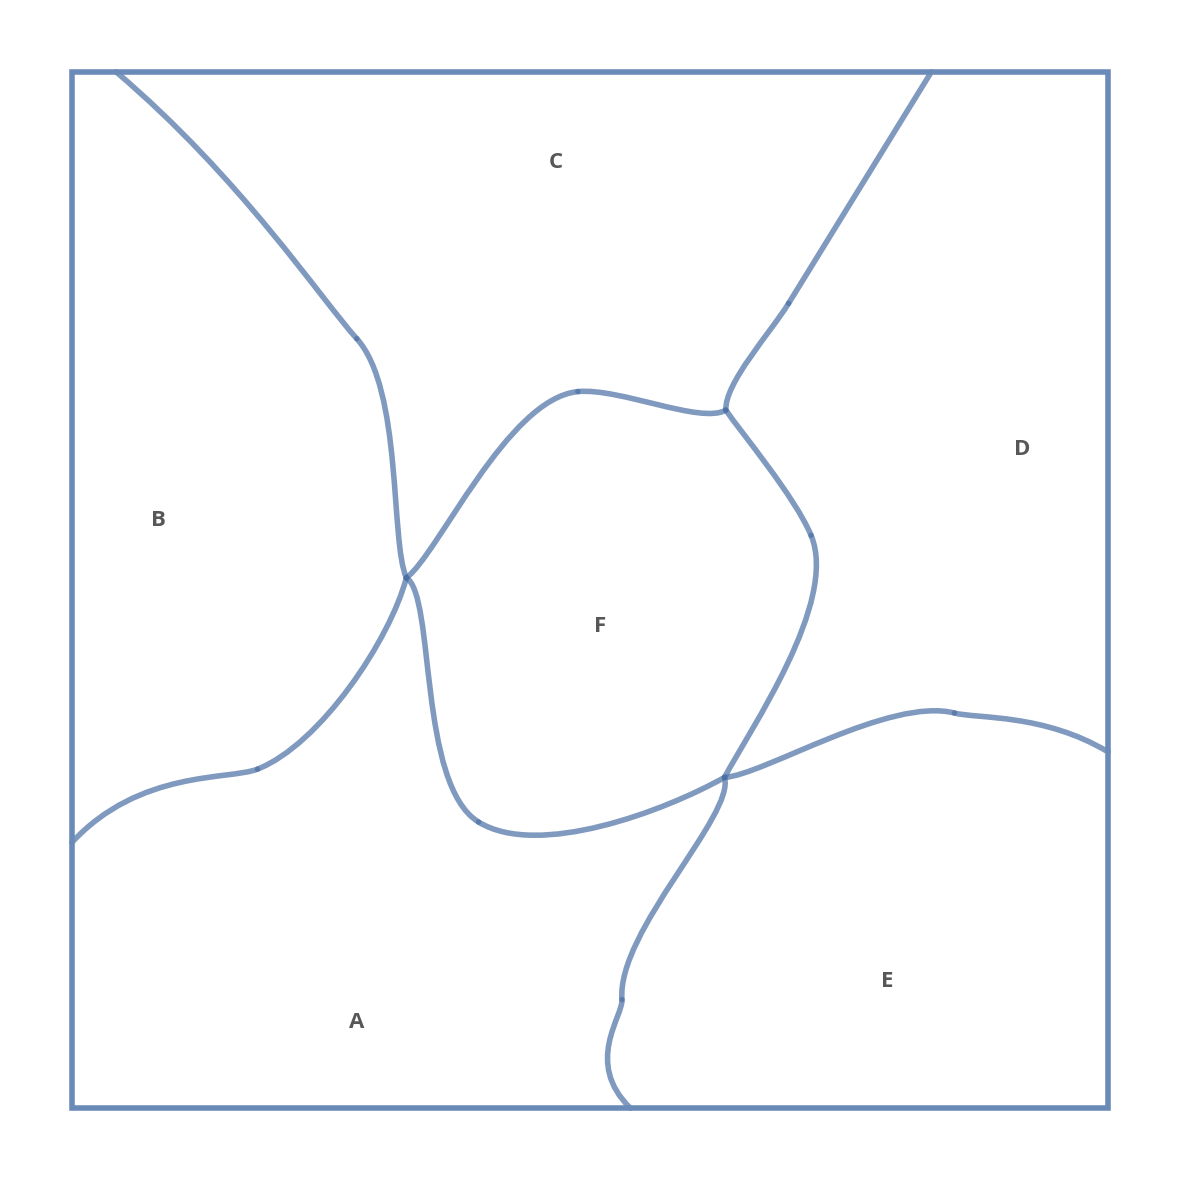
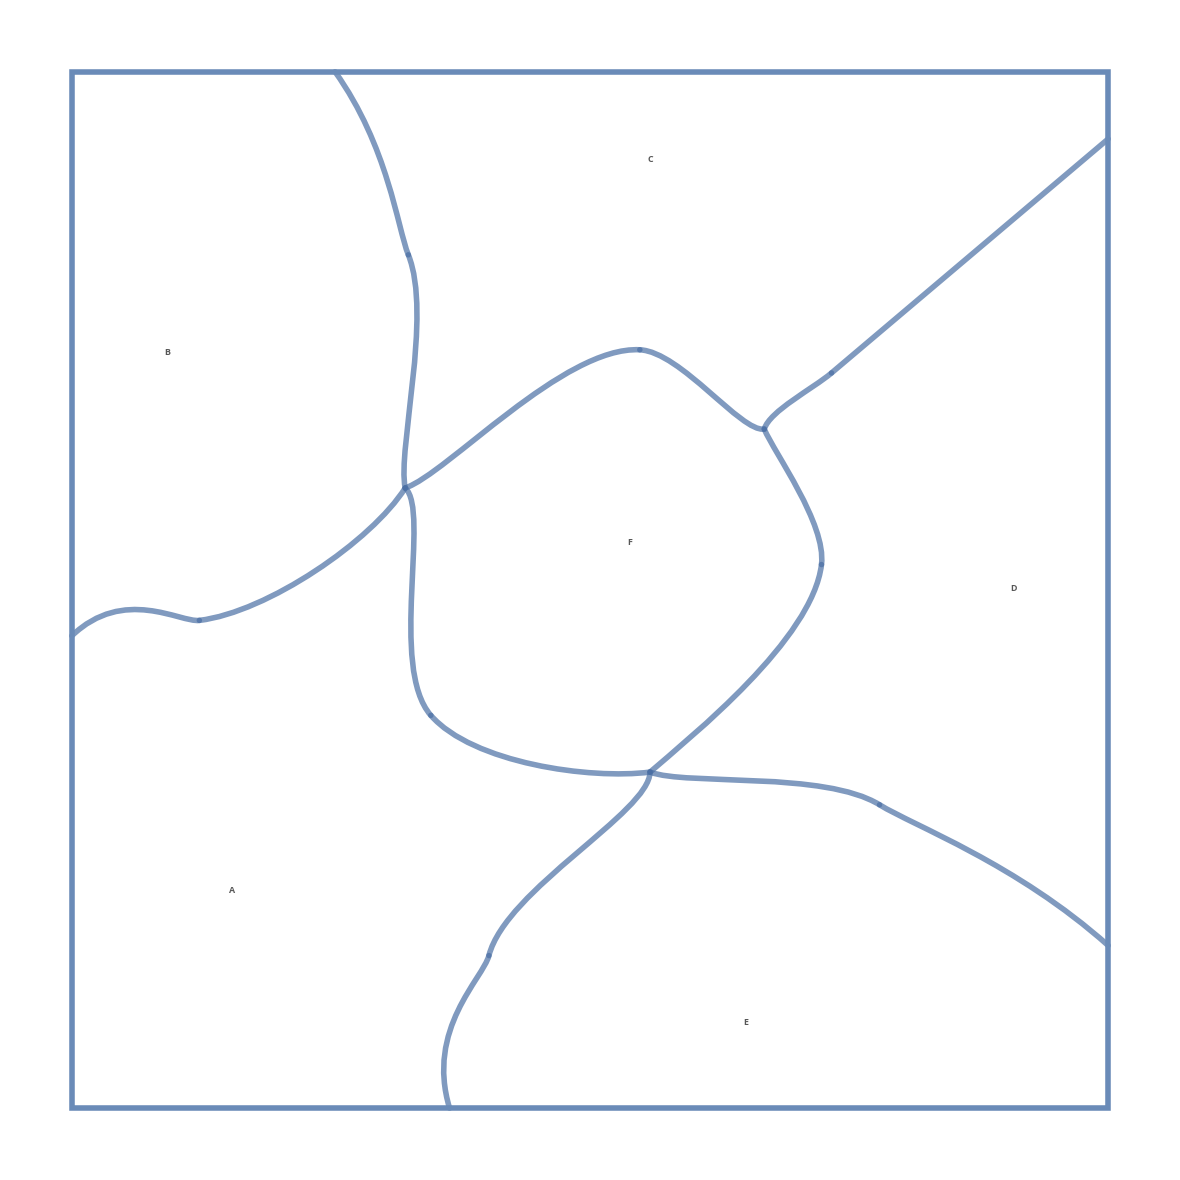
Trying to fix various bugs

diff --git a/adjacency_reduction.py b/adjacency_reduction.py
@@ -113,6 +113,26 @@ def adjacency_matrix_from_graph(G):
     return labels, matrix
 
 
+def remove_degree_one_nodes(G):
+    """
+    Repeatedly remove degree-1 nodes until none remain.
+    """
+    H = G.copy()
+
+    changed = True
+    while changed:
+        changed = False
+
+        for n in list(H.nodes()):
+            if H.degree(n) == 1:
+                H.remove_node(n)
+                changed = True
+
+        # loop again in case new danglers were created
+
+    return H
+
+
 def save_adjacency_matrix_to_excel(labels, matrix, path):
     """
     Save adjacency matrix to an Excel file with labels as both row and column headers.
@@ -121,10 +141,17 @@ def save_adjacency_matrix_to_excel(labels, matrix, path):
     df.to_excel(path)
 
 
-def reduce_adjacency_matrix_excel(input_path):
+def reduce_adjacency_matrix_excel(input_path, remove_danglers=False):
     """
-    Read adjacency matrix from Excel, suppress degree-2 nodes, and save
-    reduced matrix to a new Excel file with '-reduced' appended.
+    Read adjacency matrix from Excel, suppress degree-2 nodes, optionally
+    remove degree-1 nodes, and save reduced matrix to a new Excel file.
+
+    If remove_danglers is True, repeatedly removes nodes of degree 1 after
+    suppressing degree-2 nodes.
+
+    Output file name:
+    - normal:   originalname-reduced.xlsx
+    - danglers: originalname-reduced-nodanglers.xlsx
     """
     input_path = Path(input_path)
 
@@ -134,12 +161,27 @@ def reduce_adjacency_matrix_excel(input_path):
     print(f"Original graph: {G.number_of_nodes()} nodes, {G.number_of_edges()} edges")
 
     H = suppress_degree_two_nodes(G)
+    print(
+        f"After suppressing degree-2 nodes: {H.number_of_nodes()} nodes, {H.number_of_edges()} edges"
+    )
 
-    print(f"Reduced graph:  {H.number_of_nodes()} nodes, {H.number_of_edges()} edges")
+    if remove_danglers:
+        H = remove_degree_one_nodes(H)
+        print(
+            f"After removing danglers:        {H.number_of_nodes()} nodes, {H.number_of_edges()} edges"
+        )
 
     reduced_labels, reduced_matrix = adjacency_matrix_from_graph(H)
 
-    output_path = input_path.with_name(f"{input_path.stem}-reduced{input_path.suffix}")
+    if remove_danglers:
+        output_path = input_path.with_name(
+            f"{input_path.stem}-reduced-nodanglers{input_path.suffix}"
+        )
+    else:
+        output_path = input_path.with_name(
+            f"{input_path.stem}-reduced{input_path.suffix}"
+        )
+
     save_adjacency_matrix_to_excel(reduced_labels, reduced_matrix, output_path)
 
     print(f"Saved reduced adjacency matrix to: {output_path}")
@@ -149,4 +191,4 @@ def reduce_adjacency_matrix_excel(input_path):
 
 if __name__ == "__main__":
     INPUT_FILE = "20260421-Zone 1-Bank-Mon.xlsx"
-    reduce_adjacency_matrix_excel(INPUT_FILE)
+    reduce_adjacency_matrix_excel(INPUT_FILE, remove_danglers=True)

diff --git a/map_rendering.py b/map_rendering.py
@@ -1878,7 +1878,7 @@ def main(filename, weights):
 
     primal_pos = nx.combinatorial_embedding_to_pos(
         primal_embedding,
-        fully_triangulate=True,
+        fully_triangulate=False,
     )
 
     print("INITIAL POS:")
@@ -2109,15 +2109,15 @@ VIS_STYLE = {
 # VIS_STYLE above is the style dict for the visualisation - tweak as desired, but it should be mostly fine as is for different matrices
 # Finally note 'SCALE_PARAM' above the dictionary - this affects font and node sizes and should be tweaked for more or fewer nodes
 
-PATH = "20260421-Zone 1-Bank-Mon-reduced.xlsx"
+PATH = "20260421-Test pentagon.xlsx"
 
 WEIGHTS = {
-    "node_spread": 1,  # Rewards spreading out nodes
+    "node_spread": 0,  # Rewards spreading out nodes
     "edge_uniformity": 0.1,  # Rewards edges of similar length
     "face_area": 0.0,  # Rewards faces having similar area
-    "angle_penalty": 0.5,  # Rewards angles that are nicely spread around their nodes
+    "angle_penalty": 0.1,  # Rewards angles that are nicely spread around their nodes
     "outer_roundness": 2.0,  # Rewards outer face nodes being placed in a more circular arrangement, rather than all bunched up on one side
-    "outer_concavity": 1000.0,  # Penalises outer face nodes being placed in a concave arrangement, which can lead to weird dual edges that loop around the outside of the drawing
+    "outer_concavity": 100.0,  # Penalises outer face nodes being placed in a concave arrangement, which can lead to weird dual edges that loop around the outside of the drawing
 }
 
 if __name__ == "__main__":
